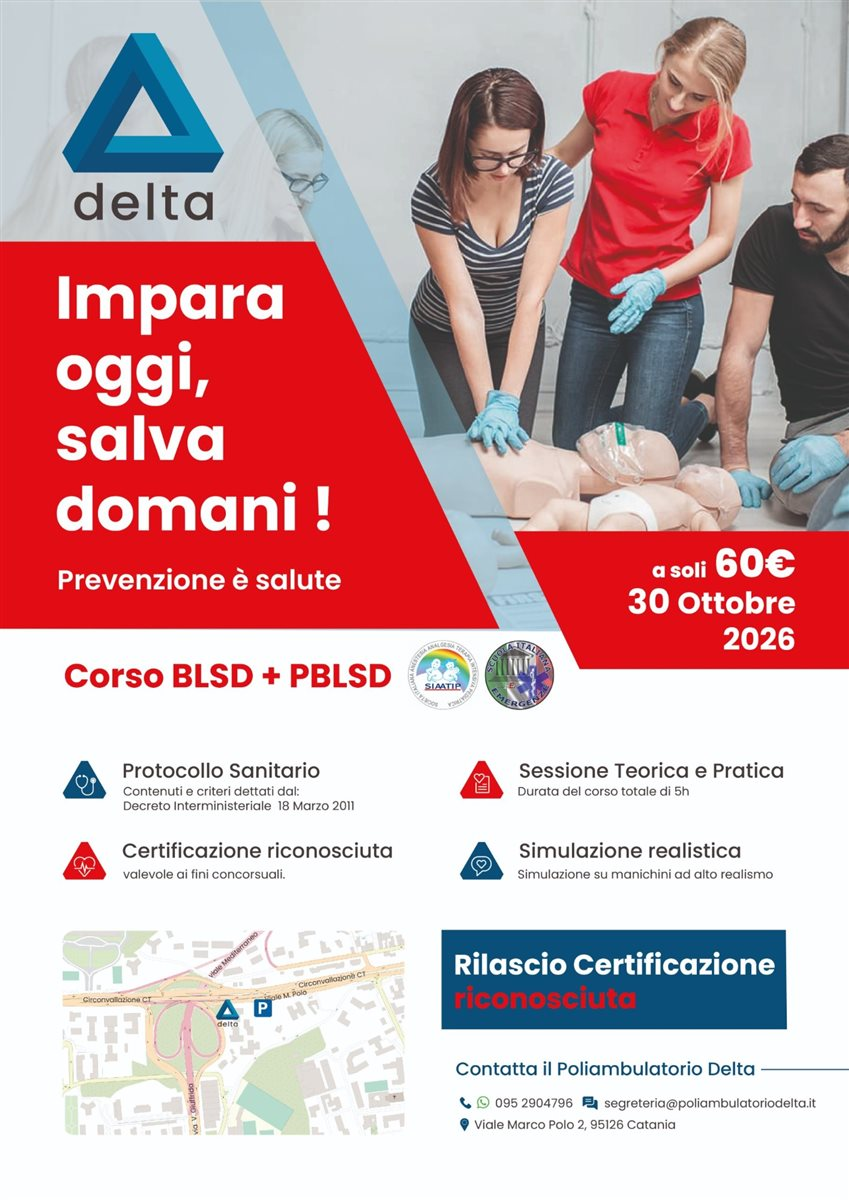
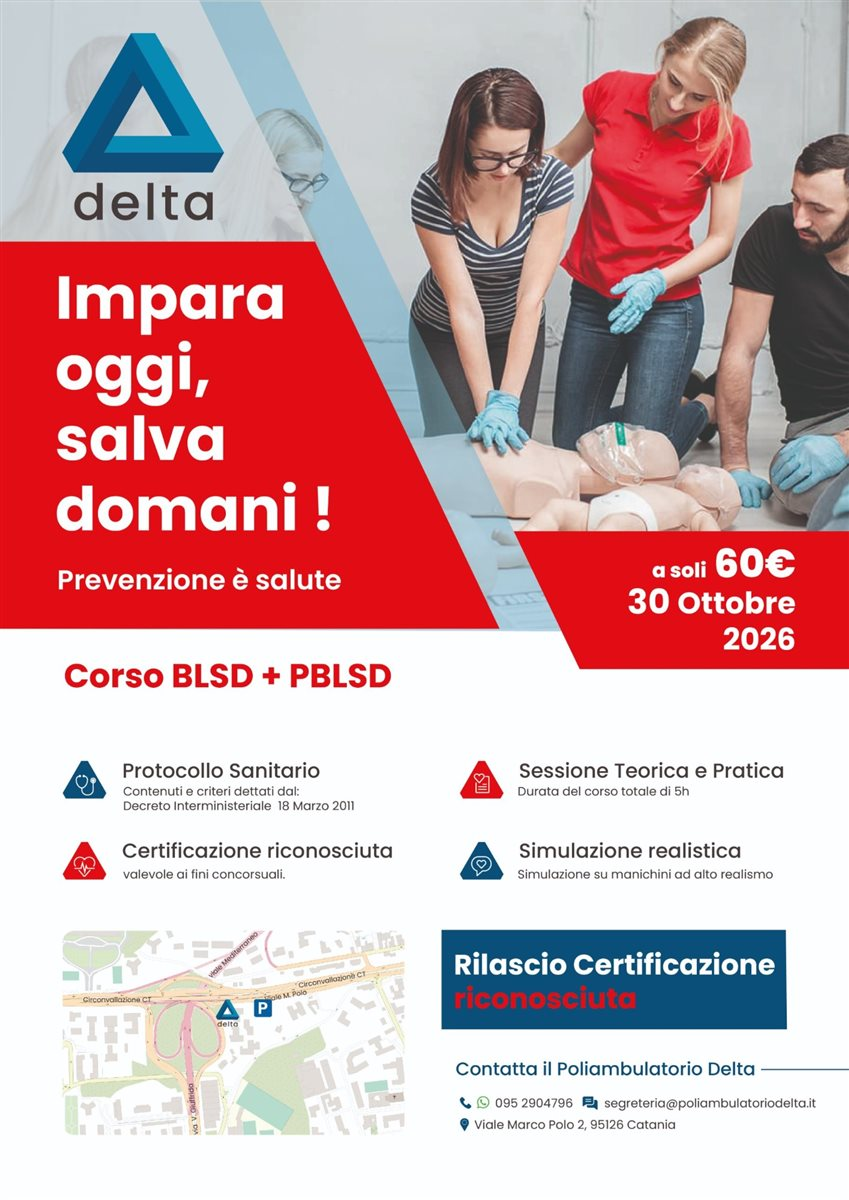
Sostituisce la locandina del Corso BLSD+PBLSD con la nuova versione

Changed region(s): [[0.4594, 0.5242, 0.6737, 0.6167]]

diff --git a/index.html b/index.html
@@ -240,8 +240,8 @@
           </div>
 
           <div class="promo-card">
-            <div class="promo-card-image lightbox-trigger" data-full="images/promo-blsd-full.jpg?v=2" role="button" tabindex="0" aria-label="Ingrandisci la locandina del Corso BLSD + PBLSD">
-              <img src="images/promo-blsd.jpg?v=2" alt="Locandina del Corso BLSD + PBLSD a 60 euro, 30 Ottobre 2026, Poliambulatorio Delta">
+            <div class="promo-card-image lightbox-trigger" data-full="images/promo-blsd-full.jpg?v=3" role="button" tabindex="0" aria-label="Ingrandisci la locandina del Corso BLSD + PBLSD">
+              <img src="images/promo-blsd.jpg?v=3" alt="Locandina del Corso BLSD + PBLSD a 60 euro, 30 Ottobre 2026, Poliambulatorio Delta">
             </div>
             <div class="promo-card-body">
               <span class="promo-tag">Corso in programma</span>

diff --git a/corsi.html b/corsi.html
@@ -409,7 +409,7 @@
     blsd: {
       titolo: 'Corso BLSD + PBLSD',
       html: `
-        <img src="images/promo-blsd.jpg?v=2" alt="Locandina del Corso BLSD + PBLSD, 30 Ottobre 2026, a 60 euro" class="info-modal-poster">
+        <img src="images/promo-blsd.jpg?v=3" alt="Locandina del Corso BLSD + PBLSD, 30 Ottobre 2026, a 60 euro" class="info-modal-poster">
         <h4>Prossima edizione</h4>
         <p><strong>30 Ottobre 2026</strong> — quota di partecipazione <strong>€ 60,00</strong> — durata totale <strong>5 ore</strong>.</p>
         <h4>A chi è rivolto</h4>
